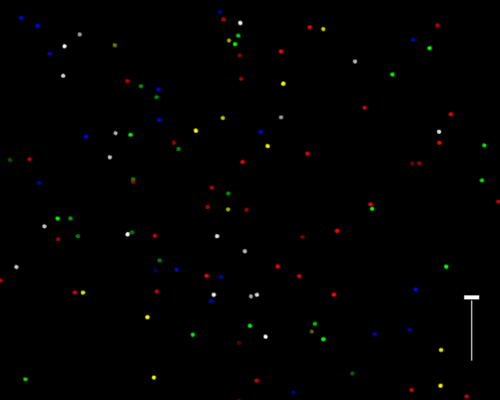
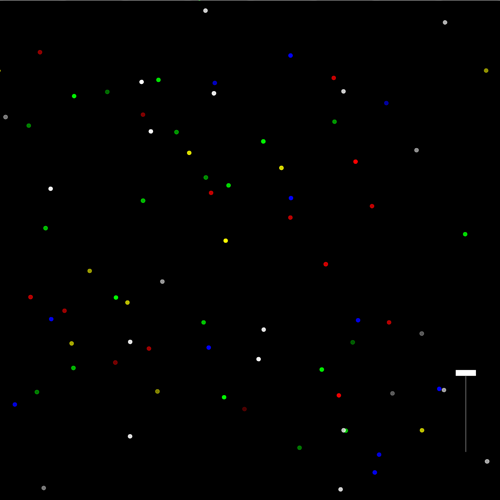
shitz and giggx

diff --git a/app/webroot/js/portfolio.js b/app/webroot/js/portfolio.js
@@ -14,6 +14,22 @@ $(function() {
     }, function() {
         $(this).children('.inner-card').css('margin-top', '0px');
     });
+
+    // handle inner-links (overlay a real link on top
+    $('span.inner-link').parent().parent().parent().click(function(e) {
+        if ($('span.inner-link').is(':hover'))
+            e.preventDefault();
+    });
+    $('span.inner-link').click(function(e) {
+        e.preventDefault();
+    });
+    $('span.inner-link').each(function() {
+        var $this = $(this);
+        var $div = $('<span class="link-hack"><a href="' + $this.data('href') + '" target="_blank">' + $this.html() + '</a></span>');
+        var $innerCard = $this.parents('.inner-card');
+        $innerCard.append($div);
+        $innerCard.children('.link-hack').offset($this.offset()).css('top', '+=1px');
+    });
 });
 
 // set the card heights and vertically center the cards
@@ -33,7 +49,6 @@ function valignHeightAdjust() {
         var $descWrapper = $(this);
         var $description = $descWrapper.children('.description');
         var freeSpace = $descWrapper.height() - $descWrapper.children(':eq(0)').height() - $descWrapper.children(':eq(1)').height()*2 - $description.outerHeight();
-        console.log($descWrapper.height(), $descWrapper.children(':eq(0)').height(), $descWrapper.children(':eq(1)').height()*2, $description.outerHeight())
         if (freeSpace > 0) {
             $description.css('margin-top', freeSpace/2);
         }
@@ -55,5 +70,12 @@ function valignHeightAdjust() {
     $('.card-shadow').each(function(index, elem) {
         var cardOffset = $('.card:eq(' + index + ')').offset();
         $(elem).offset(cardOffset);
+    });
+
+    // update each link hack
+    $('span.inner-link').each(function() {
+        var $this = $(this);
+        var $innerCard = $this.parents('.inner-card');
+        $innerCard.children('.link-hack').offset($this.offset()).css('top', '+=1px');
     });
 }

diff --git a/app/webroot/css/global.css b/app/webroot/css/global.css
@@ -2,7 +2,7 @@
 body {
     background-image: url('/img/grey-dots.png');
     background-repeat: repeat;
-    background-position: 0px -4px;
+    background-position: 0px -6px;
 }
 .navbar .nav-tabs {
     float: right;
@@ -20,6 +20,9 @@ body {
 }
 h1, h2, h3 {
     font-family: 'Monda', sans-serif;
+}
+.justified {
+    text-align: justify;
 }
 
 /* ie alert */

diff --git a/app/webroot/css/portfolio.css b/app/webroot/css/portfolio.css
@@ -7,3 +7,15 @@
 a {
     text-decoration: none !important;
 }
+
+.inner-link {
+    color: transparent;
+    display: inline-block;
+}
+.inner-link img {
+    opacity: 0;
+}
+.link-hack {
+    position: absolute;
+    line-height: 100%;
+}

diff --git a/app/webroot/js/ios_lockscreens.js b/app/webroot/js/ios_lockscreens.js
@@ -1,0 +1,5 @@
+$(function() {
+    // make the description divs equal heights
+    var $sameHeights = $('.same-height');
+    $sameHeights.height(Math.max($($sameHeights[0]).height(), $($sameHeights[1]).height()));
+});

diff --git a/app/webroot/css/turing.css b/app/webroot/css/turing.css
@@ -1,4 +1,9 @@
-.well label {
-	font-size: 14px;
-	font-weight: bold;
+table label {
+    font-weight: bold;
+}
+.text-input-wrapper {
+    text-align: center;
+}
+h1 {
+    margin-bottom: 25px;
 }

diff --git a/app/webroot/css/ios-lockscreens.css b/app/webroot/css/ios-lockscreens.css
@@ -1,0 +1,4 @@
+h2 {
+    margin-top: 0px;
+    margin-bottom: 0px;
+}
